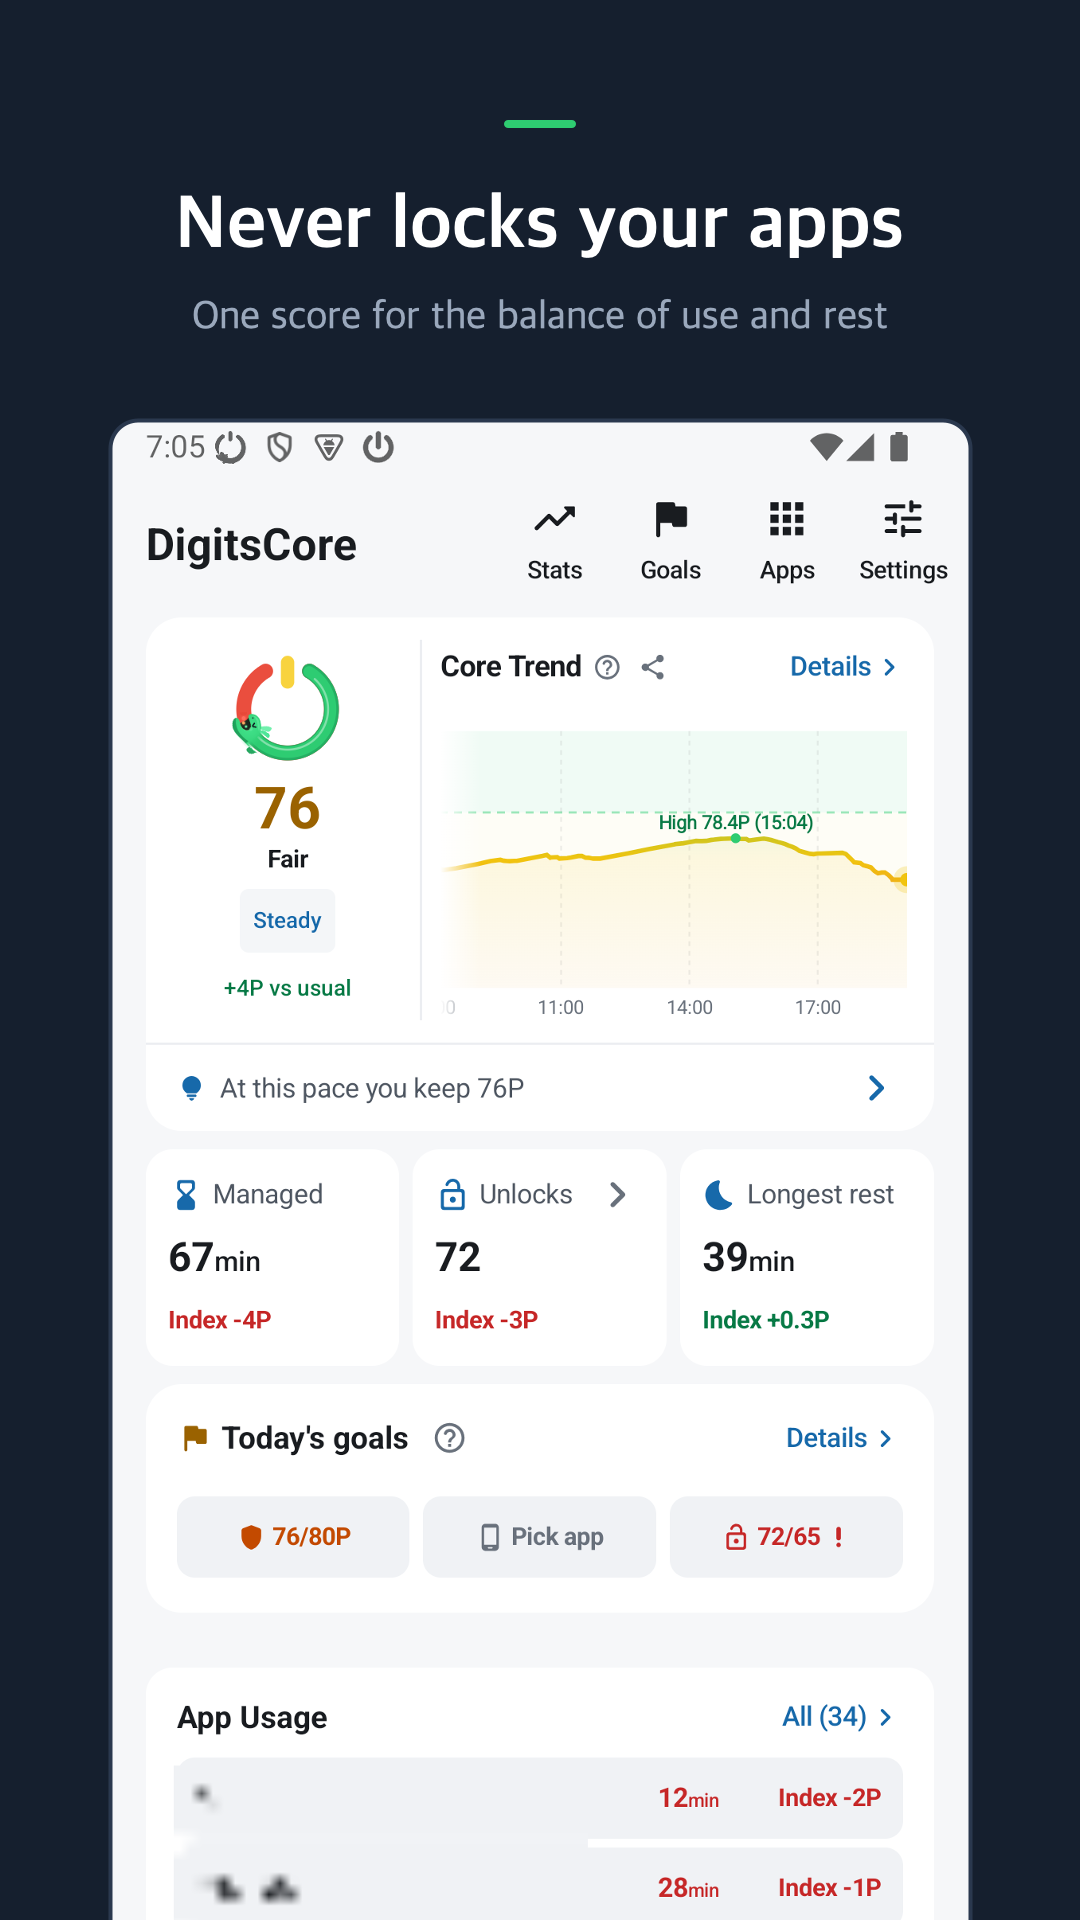
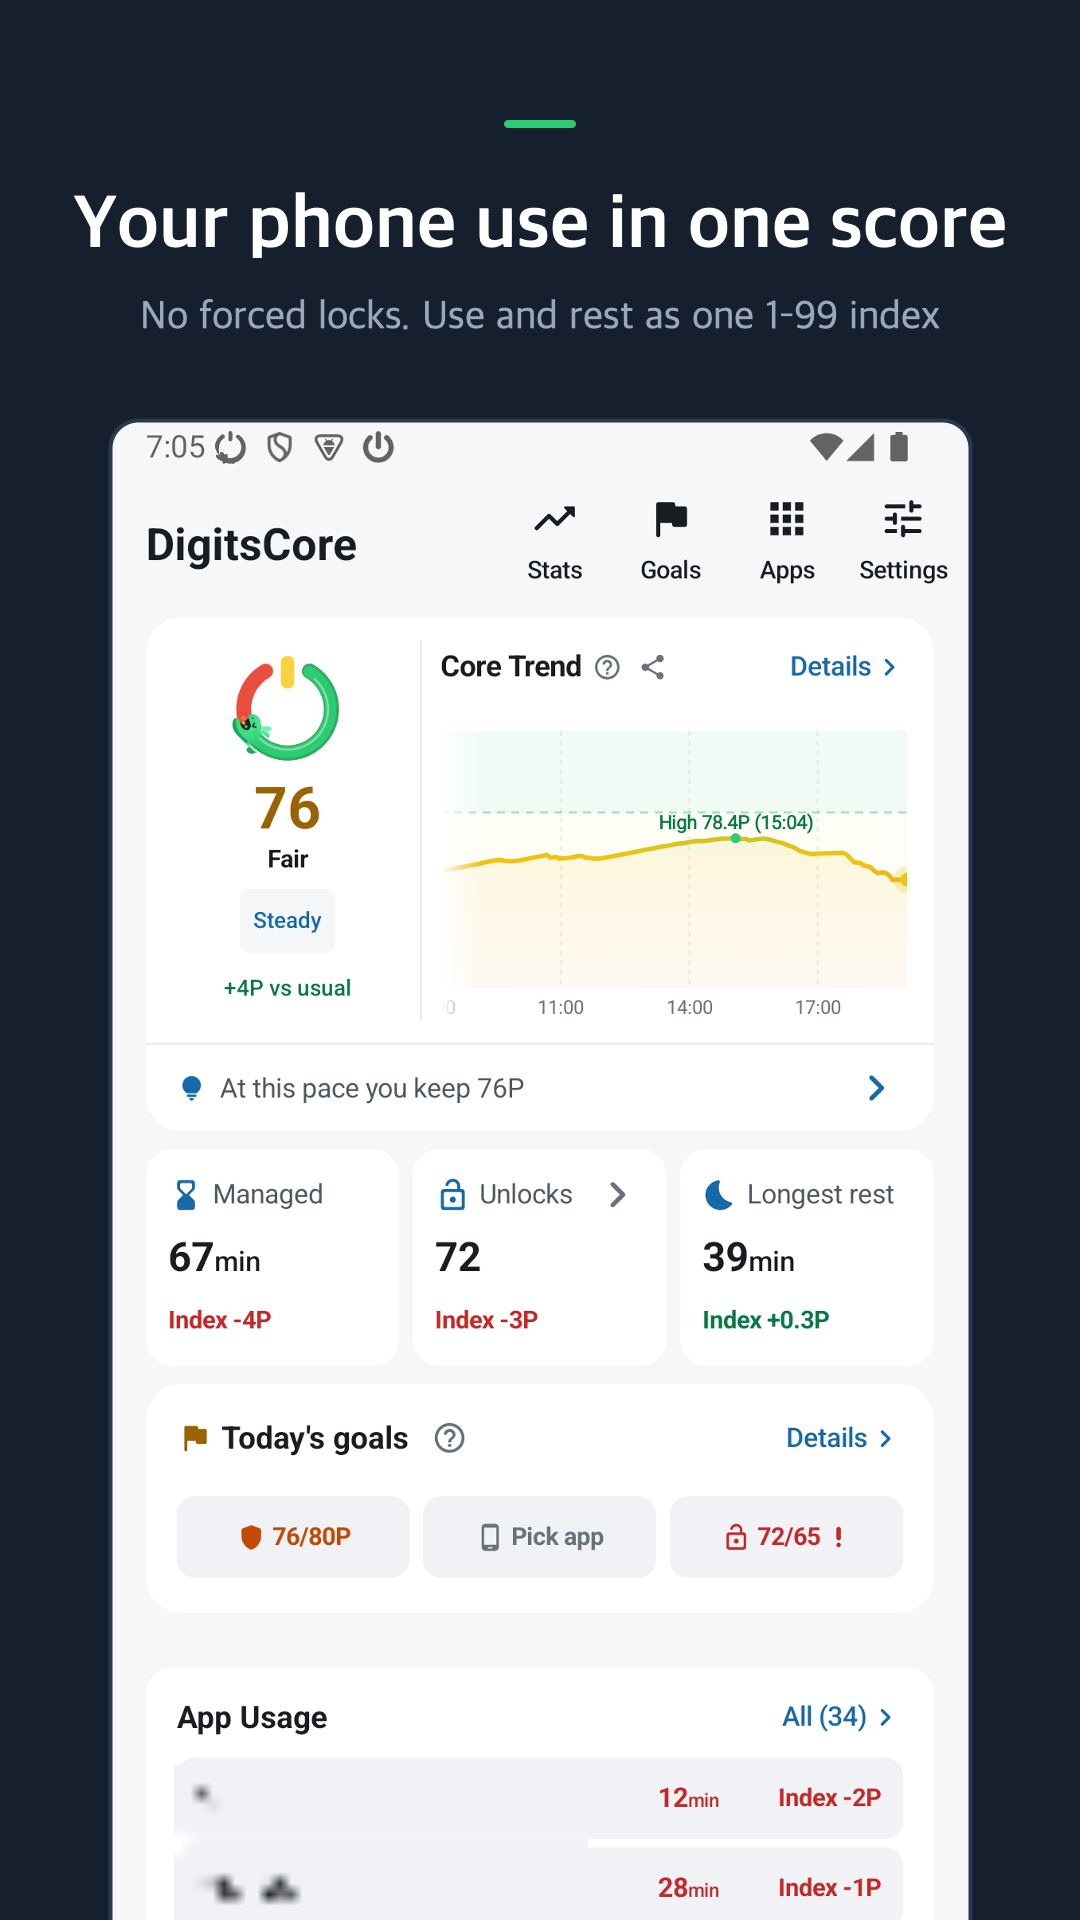
docs: v1.0.0 출시 노트, 릴리스 스크립트, 스토어 짧은 설명·스크린샷 1번 문구

Changed region(s): [[0.0611, 0.0938, 0.9472, 0.1875]]

diff --git a/scripts/store/CaptionScreenshots.java b/scripts/store/CaptionScreenshots.java
@@ -33,13 +33,13 @@ public class CaptionScreenshots {
 
     // 순서: 대시보드, 통계, 오늘의 목표, 공유 카드
     static final String[][] KO = {
-        {"앱을 잠그지 않습니다", "스마트폰 사용과 휴식의 균형을 점수 하나로"},
+        {"폰 사용을 점수 하나로", "강제 잠금 없이, 사용과 휴식의 균형을 1~99점으로"},
         {"언제 많이 썼는지 한눈에", "시간별·일별·요일별 지수와 사용 흐름"},
         {"목표는 세 가지만", "지수 방어선 · 관리 앱 시간 · 잠금 해제"},
         {"오늘의 지수를 나눠 보세요", "도룡뇽과 함께 카드 한 장으로 공유"},
     };
     static final String[][] EN = {
-        {"Never locks your apps", "One score for the balance of use and rest"},
+        {"Your phone use in one score", "No forced locks. Use and rest as one 1–99 index"},
         {"See when you used it most", "Hourly, daily and weekday views"},
         {"Just three daily goals", "Index floor · managed app time · unlocks"},
         {"Share today's index", "One card with your salamander"},

diff --git a/docs/release-notes/v1.0.0.md b/docs/release-notes/v1.0.0.md
@@ -1,25 +1,65 @@
 ## DigitsCore v1.0.0 — 정식 출시
 
-스마트폰 사용과 휴식의 균형을 1~99점 **코어 지수** 하나로 보여 줍니다. 앱을 강제로 잠그지 않습니다. 점수 계산은 v0.9.39와 같습니다.
+공개 테스트를 마치고 정식 버전으로 출시합니다. 앱 기능과 점수 계산은 v0.9.47과 같습니다.
 
-- **연속 기록 보호권**: 15min 자유권 대신, 목표 3개를 모두 지킨 날 스탬프를 모아 3개면 보호권 1장(최대 2장)을 받습니다. 연속 기록이 끊기는 날 보호권이 자동으로 쓰여 기록을 지켜 줍니다. 가지고 있던 자유권은 보호권으로 바뀝니다.
-- **도룡뇽 성장**: 연속 7·14·30일에 도룡뇽이 한 단계씩 자라 모양이 바뀝니다(1~4단계). 보호권 없이 기록이 끊기면 한 단계 작아집니다.
-- **내 기록**: 관리 앱을 가장 적게 쓴 날, 잠금 해제가 가장 적었던 날, 최장 연속 일수를 오늘의 목표 상세에 보관합니다.
-- **안내 문구**: 1시간 안에 1점이 오르지 않을 때는 소수점 대신 "화면을 끄면 감점이 바로 멈춰요. 30min 쉬면 지수가 다시 올라요"라고 알려 줍니다.
-- **가장 긴 쉼**: 오늘(05:00 이후) 기준으로 셉니다. 밤잠은 들어가지 않습니다.
-- **처음 설치할 때**: 지난 사용 기록을 불러온 뒤, 가장 많이 쓴 앱 3개의 등급을 한 번 확인하도록 안내합니다.
-- **단계가 오르면**: 단계가 오른 뒤 처음 볼 때 지수 링이 한 번 차오릅니다.
+DigitsCore는 스마트폰 사용과 휴식의 균형을 1~99점 **코어 지수** 하나로 보여 줍니다. 앱을 잠그거나 사용을 제한하는 강제 기능은 없습니다. 지금 내 상태를 보고 스스로 조절하도록 돕습니다.
+
+- **코어 지수**: 최근 24시간의 사용과 휴식으로 계산합니다. 관리할 앱을 오래 이어 쓰면 내려가고, 화면을 끄고 쉬면 다시 올라갑니다. 점수가 움직인 이유와 쉬면 언제 회복되는지도 알려 줍니다.
+- **정확한 측정**: 화면이 켜지고 잠금이 풀린 동안 앞에 보이는 앱만 셉니다. 측정이 멈추면 자동으로 다시 시작합니다.
+- **같은 기준의 앱 등급**: 모든 사용자가 같은 기본 등급으로 계산합니다. 등급이 맞지 않으면 등급을 눌러 변경을 요청할 수 있습니다.
+- **오늘의 목표 3개**: 지수 방어선, 관리 앱 시간, 잠금 해제 횟수.
+- **연속 기록과 도룡뇽**: 목표를 지킨 날이 이어지면 도룡뇽이 자랍니다. 보호권이 있으면 놓친 하루에도 기록이 이어집니다.
+- **통계와 공유**: 시간별·일별·요일별 차트와 앱별 추세. 오늘의 지수를 카드 한 장으로 나눌 수 있습니다(앱 이름·사용 시간은 담기지 않습니다).
+- **어디서나 확인**: 상태바 지수, 크기를 바꾸면 내용이 달라지는 홈 화면 위젯, 밝은·어두운 테마, 한국어·영어.
+- **기록은 기기 안에만**: 인터넷 권한도, 계정도 없습니다. 사용 기록은 암호화해 저장하고, 비밀번호를 건 백업 파일로 새 폰에 옮길 수 있습니다.
+
+공개 테스트에 참여해 주신 분들께 감사드립니다. 점수 기준은 앞으로도 의견을 받아 다듬겠습니다.
+
+**의견 보내기**: 설정 → 버그 리포트 또는 DigitsCore@gmail.com
 
 ---
 
 ## DigitsCore v1.0.0 — First stable release
 
-One number, the **Core Index** (1–99), shows the balance between phone use and rest. Nothing is force-locked. Scoring is the same as v0.9.39.
+Open testing is over and this is the first stable release. Features and scoring are the same as v0.9.47.
 
-- **Streak shields**: replaces the 15-min free pass. Every 3 all-goals days earn a shield (max 2), used automatically to keep your streak on a missed day. Existing passes become shields.
-- **Salamander growth**: your salamander changes shape at 7, 14 and 30 streak days (stages 1–4) and shrinks one stage if the streak breaks without a shield.
-- **My records**: least managed-app use, fewest unlocks and longest streak, kept in Today's goals details.
-- **Guidance**: when no whole point is reachable within an hour, it says screen off stops the drop and a 30-min rest starts the rise, instead of a decimal.
-- **Longest rest** now counts from 05:00 today, so night sleep is excluded.
-- **First run**: after loading past usage, a one-time card asks you to check the grades of your top 3 apps.
-- **Level up**: the index ring fills once the first time you see a higher level.
+DigitsCore shows the balance between phone use and rest as one number, the **Core Index** (1–99). There are no forced locks or usage limits. It shows where you are so you can adjust on your own.
+
+- **Core Index**: based on the last 24 hours of use and rest. It drops during long stretches in apps you want to manage and rises again when the screen is off. It tells you why it moved and when a rest will bring it back.
+- **Accurate measurement**: only the app on screen while the phone is on and unlocked counts. Tracking restarts on its own if it stops.
+- **Same app grades for everyone**: every user shares the same default grades. If one looks wrong, tap it to request a change.
+- **Three daily goals**: an index floor, managed app time and unlocks.
+- **Streaks and the salamander**: your salamander grows as goal days add up. A shield keeps the streak alive on a missed day.
+- **Statistics and sharing**: hourly, daily and weekday charts plus per-app trends. Share today's index as one card (no app names or usage time).
+- **Always in view**: index in the status bar, one home-screen widget that changes with its size, light and dark themes, English and Korean.
+- **Your data stays on the device**: no internet permission, no account. Usage history is stored encrypted, and a password-protected backup file moves it to a new phone.
+
+Thank you to everyone who joined open testing. Scoring will keep improving with your feedback.
+
+**Feedback**: Settings → Bug Report or DigitsCore@gmail.com
+
+---
+
+## Play Console 출시 노트 (언어별 500자 이내)
+
+<ko-KR>
+정식 버전 1.0.0입니다. 공개 테스트에 참여해 주셔서 감사합니다.
+기능과 점수 계산은 v0.9.47과 같습니다.
+- 스마트폰 사용과 휴식의 균형을 1~99점 코어 지수 하나로
+- 앱을 잠그거나 사용을 제한하는 강제 기능은 없습니다
+- 오늘의 목표 3개, 연속 기록과 도룡뇽
+- 인터넷 권한·계정 없음, 기록은 기기 안에 암호화 저장
+점수 기준은 의견을 받아 계속 다듬겠습니다.
+의견은 설정 → 버그 리포트 또는 DigitsCore@gmail.com
+</ko-KR>
+
+<en-US>
+Version 1.0.0, the first stable release. Thank you for joining open testing.
+Features and scoring are the same as v0.9.47.
+- One Core Index (1–99) for the balance of phone use and rest
+- No forced locks or usage limits
+- Three daily goals, streaks and a growing salamander
+- No internet permission or account; history stays encrypted on your device
+Scoring will keep improving with your feedback.
+Feedback: Settings → Bug Report or DigitsCore@gmail.com
+</en-US>

diff --git a/docs/store-listing/play_listing.md b/docs/store-listing/play_listing.md
@@ -1,6 +1,6 @@
 # Google Play 스토어 등록정보
 
-기준 빌드: v0.9.43 (2026-11-06). Play Console → 사용자 늘리기 → 스토어 등록정보에 언어별로 붙여 넣습니다.
+기준 빌드: v1.0.0 (2026-11-25 준비, v0.9.47과 기능 같음). Play Console → 사용자 늘리기 → 스토어 등록정보에 언어별로 붙여 넣습니다.
 제한: 앱 이름 30자, 짧은 설명 80자, 자세한 설명 4,000자. 짧은 설명에 엔 대시(–)를 쓰면 Play가 가이드라인 경고를 냅니다.
 기능이나 권한이 바뀌면 이 파일을 같은 변경에서 고칩니다.
 앱 이름을 바꾸면 다시 심사를 받고, 진행 중인 검토가 있으면 처음부터 다시 시작합니다. 검토가 없을 때 바꿉니다.
@@ -12,7 +12,7 @@
 
 | 순서 | 화면 | ko 문구 | en 문구 |
 |---|---|---|---|
-| 1 | 대시보드 | 앱을 잠그지 않습니다 / 스마트폰 사용과 휴식의 균형을 점수 하나로 | Never locks your apps / One score for the balance of use and rest |
+| 1 | 대시보드 | 폰 사용을 점수 하나로 / 강제 잠금 없이, 사용과 휴식의 균형을 1~99점으로 | Your phone use in one score / No forced locks. Use and rest as one 1–99 index |
 | 2 | 통계 | 언제 많이 썼는지 한눈에 / 시간별·일별·요일별 지수와 사용 흐름 | See when you used it most / Hourly, daily and weekday views |
 | 3 | 오늘의 목표 | 목표는 세 가지만 / 지수 방어선 · 관리 앱 시간 · 잠금 해제 | Just three daily goals / Index floor · managed app time · unlocks |
 | 4 | 공유 카드 | 오늘의 지수를 나눠 보세요 / 도룡뇽과 함께 카드 한 장으로 공유 | Share today's index / One card with your salamander |
@@ -29,9 +29,9 @@ DigitsCore: 스크린타임·핸드폰 사용시간
 
 ### 짧은 설명
 
-스마트폰 사용과 휴식의 균형을 1~99점 코어 지수 하나로. 앱을 잠그지 않는 디지털 디톡스.
+스마트폰 사용과 휴식의 균형을 1~99점 코어 지수 하나로. 강제 잠금 없는 디지털 디톡스.
 
-(이전: 스마트폰 사용과 휴식의 균형을 1~99점 코어 지수 하나로. 앱을 잠그지 않습니다.)
+(이전: …앱을 잠그지 않는 디지털 디톡스. "잠그지 않는다"만 쓰면 아무 기능이 없는 것처럼 읽혀 1.0.0에서 "강제 잠금 없는"으로 바꿉니다. 스크린샷 1번 문구도 같은 이유로 바꿨습니다.)
 
 ### 자세한 설명
 
@@ -96,9 +96,9 @@ DigitsCore Screen Time Tracker
 
 ### Short description
 
-One Core Index for phone usage and rest. A digital detox that never locks apps.
+One Core Index for phone usage and rest. A digital detox with no forced locks.
 
-(Previously: One Core Index for the balance of phone use and rest. Nothing is locked.)
+(Previously: …A digital detox that never locks apps. Changed for 1.0.0 together with screenshot caption 1.)
 
 ### Full description
 

diff --git a/docs/PLAY_CONSOLE_SUBMISSION.md b/docs/PLAY_CONSOLE_SUBMISSION.md
@@ -24,6 +24,21 @@
 
 국가 제한이 필요한지 다시 볼 항목: 앱은 오프라인이고 결제·광고·계정이 없어 국가별 추가 규정은 현재 해당하지 않습니다. 콘텐츠 등급 설문은 모든 지역 등급을 함께 만듭니다.
 
+## 프로덕션 출시 1.0.0 (2026-11-25 준비)
+
+2026-11-25 Console 확인:
+- 프로덕션 할 일은 국가 선택 → 새 버전 만들기 → 검토 전송 세 가지뿐입니다(프로덕션 액세스 신청 단계 없음).
+- Android Vitals는 사용자가 적어 비율 데이터가 없습니다. 최근 28일 비정상 종료·ANR 0건입니다.
+
+순서:
+1. `bash scripts/dev/tasks/release_100.sh build`: version.properties를 1.0.0(versionCode 1000)으로 바꾸고 테스트·서명 빌드·커밋까지 합니다. 확인 뒤 `publish`로 푸시와 GitHub 릴리스.
+2. **스토어 등록정보** (ko·en): 짧은 설명과 스크린샷 1번을 [store-listing/play_listing.md](store-listing/play_listing.md) 기준으로 바꿉니다. 같은 검토에 함께 들어갑니다.
+3. **프로덕션 → 국가/지역**: 공개 테스트와 같이 모든 국가.
+4. **프로덕션 → 새 버전 만들기**: `DigitsCore-v1.0.0-release.aab`, 출시 노트는 `docs/release-notes/v1.0.0.md`의 Play Console 블록.
+5. **단계적 출시**: 20%로 시작. 설치 수가 적어 비율의 의미는 작지만, 문제가 생기면 출시를 멈출 수 있습니다.
+6. 검토 전송. 승인 뒤 공개 테스트 트랙은 비활성화(테스터는 프로덕션으로 업데이트를 받음)하거나, 다음 버전을 먼저 시험할 트랙으로 남깁니다.
+7. 승인 뒤 홍보 문구의 공개 테스트·오픈 베타 표현과 테스트 참여 링크를 스토어 링크로 바꿉니다.
+
 ## 개인정보처리방침·지원 정보
 
 - 앱 안의 개인정보 안내와 공개 HTTPS 정책의 내용·보유기간·삭제 경로를 일치시킵니다.

diff --git a/Agents.md b/Agents.md
@@ -71,7 +71,7 @@
 - [ ] 업로드 keystore와 GitHub Secrets 구성
 - [ ] 공개 개인정보처리방침 URL 및 Google Play Data safety 확정
 - [x] Play 내부·비공개 테스트용 정식 서명 AAB 배포 (비공개 테스트 2026-10-31 종료)
-- [ ] Play 공개 테스트 v0.9.43 모든 국가 출시 후 2주 Vitals·피드백 검토 → 1.0.0 프로덕션
+- [ ] Play 공개 테스트(2026-11-06~, v0.9.47) 후 1.0.0 프로덕션: 출시 노트·릴리스 스크립트·스토어 문구 준비 완료(2026-11-25), 빌드·Console 제출 남음
 
 ## 다음 구현 (2026-11-17 결정)
 
